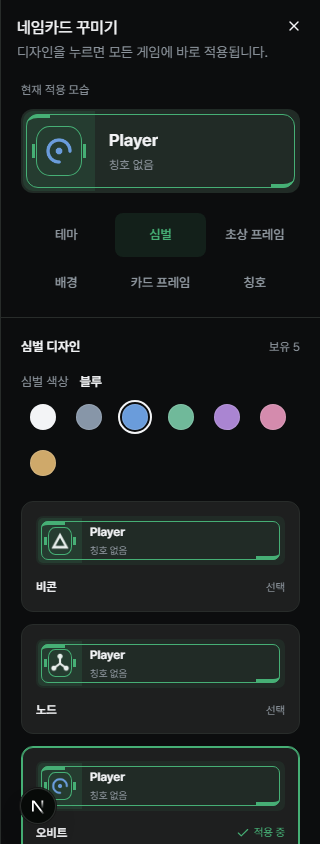
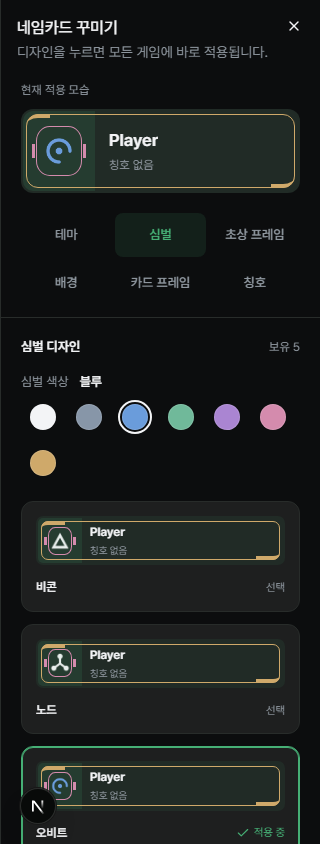
feat(profile): add independent portrait and card frame colors

diff --git a/e2e/namecard-frames-and-symbol-colors.spec.ts b/e2e/namecard-frames-and-symbol-colors.spec.ts
@@ -37,6 +37,15 @@ test("symbol colors and ten free frames persist across cards, profiles and comme
         const dialog = page.getByRole("dialog", { name: `${design.name} 미리보기`, exact: true });
         await expect(dialog.locator(`[data-${category}="${design.id}"]`)).toBeVisible();
         await expect(dialog.locator('[data-symbol-palette="blue"]')).toBeVisible();
+        const frame = dialog.locator(`[data-frame-kind="${category}"]`);
+        const palettePicker = dialog.getByRole("group", { name: new RegExp(`${label} 색상`) });
+        if (design === designs[0]) for (const palette of COSMETIC_COLOR_PRESETS) {
+          await palettePicker.getByRole("radio", { name: palette.name, exact: true }).check();
+          await expect(frame).toHaveAttribute("data-frame-palette", palette.id);
+          const rgb = [1,3,5].map(start => parseInt(palette.swatch.slice(start,start+2),16));
+          await expect(frame).toHaveCSS("color", `rgb(${rgb.join(", ")})`);
+        }
+        await palettePicker.getByRole("radio", { name: category === "portrait" ? "로즈" : "앰버", exact: true }).check();
         await dialog.getByRole("button", { name: `${design.name} 적용`, exact: true }).click();
         await expect(dialog.getByRole("button", { name: `${design.name} 적용`, exact: true })).toBeDisabled();
         await dialog.getByRole("button", { name: "미리보기 닫기", exact: true }).click();
@@ -53,6 +62,8 @@ test("symbol colors and ten free frames persist across cards, profiles and comme
     const card = editor.getByRole("region", { name: "현재 네임카드" }).locator("[data-namecard]");
     await expect(card).toHaveAttribute("data-portrait", "capsule");
     await expect(card).toHaveAttribute("data-frame", "tab");
+    await expect(card.locator('[data-frame-kind="portrait"]')).toHaveAttribute("data-frame-palette", "rose");
+    await expect(card.locator('[data-frame-kind="frame"]')).toHaveAttribute("data-frame-palette", "amber");
     for (const width of [1100, 390, 320]) {
       await page.setViewportSize({ width, height: 844 });
       expect(await editor.evaluate(el => el.scrollWidth <= el.clientWidth + 1)).toBe(true);
@@ -64,10 +75,22 @@ test("symbol colors and ten free frames persist across cards, profiles and comme
     const shared = peer.getByRole("region", { name: "플레이어 배너" }).locator("[data-namecard]");
     await expect(shared).toHaveAttribute("data-frame", "tab");
     await expect(shared).toHaveAttribute("data-portrait", "capsule");
+    await expect(shared.locator('[data-frame-kind="portrait"]')).toHaveAttribute("data-frame-palette", "rose");
+    await expect(shared.locator('[data-frame-kind="frame"]')).toHaveAttribute("data-frame-palette", "amber");
     await expect(shared.locator("[data-symbol-art]")).toHaveAttribute("data-symbol-palette", "blue");
     await peer.goto(f.path.replace(/balance$/, `board/free/${postId}`));
     await expect(peer.locator("#comments").getByRole("img", { name: `${f.users[0].nickname} 프로필 심볼`, exact: true })).toHaveAttribute("data-symbol-palette", "blue");
     await expect(peer.locator('#comments [data-frame-design="capsule"]')).toBeVisible();
+    await expect(peer.locator('#comments [data-frame-design="capsule"]')).toHaveAttribute("data-frame-palette", "rose");
+    for (const [label, category] of [["초상 프레임", "portrait"], ["카드 프레임", "frame"]] as const) {
+      await editor.getByRole("group", { name: "네임카드 꾸미기 분류" }).getByRole("button", { name: label, exact: true }).click();
+      const picker = editor.getByRole("group", { name: new RegExp(`${label} 색상`) });
+      await picker.getByRole("radio", { name: "블루", exact: true }).click();
+      await expect(card.locator(`[data-frame-kind="${category}"]`)).toHaveAttribute("data-frame-palette", "blue");
+      await picker.getByRole("radio", { name: "기본", exact: true }).click();
+      await expect(card.locator(`[data-frame-kind="${category}"]`)).toHaveAttribute("data-frame-palette", "default");
+    }
+    await editor.getByRole("group", { name: "네임카드 꾸미기 분류" }).getByRole("button", { name: "심벌", exact: true }).click();
     await editor.getByRole("group", { name: /심벌 색상/ }).getByRole("radio", { name: "기본", exact: true }).click();
     await expect(card.locator("img[data-symbol-art]")).toHaveAttribute("data-symbol-palette", "default");
     await page.reload();

diff --git a/src/components/store/personal-store-products.tsx b/src/components/store/personal-store-products.tsx
@@ -39,10 +39,11 @@ export function PersonalStoreProducts({ state, displayName, offer }: {
   const [palettes, setPalettes] = useState<Record<string, CosmeticColorPresetId | null>>({});
   const selections = selectionOverride ?? state.selections;
   const coins = coinOverride ?? state.coinBalance;
+  const hasInkPalette = (p: NamecardProduct) => p.category === "emblem" || (p.category === "portrait" || p.category === "frame") && p.rarity === "normal";
   const products = namecardProducts({ ...state, selections }, offer).map(p => {
     const palette = palettes[p.id] !== undefined ? palettes[p.id] : selections.find(s => s.option_id === p.id)?.palette_id;
     const background = namecardBackground(state.catalog.find(option => option.id === p.id)?.code, palette);
-    return { ...p, available: p.available || purchased.includes(p.id), selections: background || p.category === "emblem" ? p.selections.map(s => ({ ...s, palette_id: background?.paletteId ?? palette ?? null })) : p.selections };
+    return { ...p, available: p.available || purchased.includes(p.id), selections: background || hasInkPalette(p) ? p.selections.map(s => ({ ...s, palette_id: background?.paletteId ?? palette ?? null })) : p.selections };
   });
   const candidate = products.find(product => product.id === previewId) ?? null;
   const layout = category === "emblem" || category === "portrait" ? "compact" : category === "sub" ? "label" : "wide";
@@ -58,10 +59,10 @@ export function PersonalStoreProducts({ state, displayName, offer }: {
     return <Namecard displayName={displayName} {...appearance} previewPart={complete || product.category === "theme" ? undefined : product.category} fill />;
   };
   const applied = (p: NamecardProduct) => p.selections.every(next => selections.some(s => s.category === next.category && s.option_id === next.option_id
-    && (p.category === "emblem" ? (s.palette_id ?? null) === (next.palette_id ?? null) : !next.palette_id || namecardBackground(state.catalog.find(o => o.id === s.option_id)?.code, s.palette_id)?.paletteId === next.palette_id)));
+    && (hasInkPalette(p) ? (s.palette_id ?? null) === (next.palette_id ?? null) : !next.palette_id || namecardBackground(state.catalog.find(o => o.id === s.option_id)?.code, s.palette_id)?.paletteId === next.palette_id)));
   const reason = (p: NamecardProduct) => p.available ? null : p.premium && !offer?.eligible ? "Premium 클랜 가입 시 구매 가능" : coins < p.price ? "코인 부족" : null;
-  const palettePicker = (product: NamecardProduct, compact = false) => product.category === "emblem"
-    ? <CosmeticColorPicker allowDefault compact={compact} label={compact ? `${product.name} 색상` : "심벌 색상"} value={product.selections[0]?.palette_id as CosmeticColorPresetId ?? null} disabled={pending} onChange={value => setPalettes(previous => ({ ...previous, [product.id]: value }))} />
+  const palettePicker = (product: NamecardProduct, compact = false) => hasInkPalette(product)
+    ? <CosmeticColorPicker allowDefault compact={compact} label={compact ? `${product.name} 색상` : `${STORE_CATEGORIES.find(c => c.id === product.category)?.label} 색상`} value={product.selections[0]?.palette_id as CosmeticColorPresetId ?? null} disabled={pending} onChange={value => setPalettes(previous => ({ ...previous, [product.id]: value }))} />
     : product.selections[0]?.palette_id ? <CosmeticColorPicker compact={compact} label={compact ? `${product.name} 색상` : "배경 색상"} value={product.selections[0].palette_id as CosmeticColorPresetId} disabled={pending} onChange={value => setPalettes(previous => ({ ...previous, [product.id]: value }))} /> : null;
 
   function apply(product: NamecardProduct) {

diff --git a/src/lib/profile/namecard.ts b/src/lib/profile/namecard.ts
@@ -1,6 +1,6 @@
 export type NamecardCategory = "emblem" | "namebar" | "sub" | "frame" | "portrait";
 export type NamecardOption = { id: string; category: NamecardCategory; code: string; name_ko: string; unlock_source: string; price_coins: number; created_at?: string };
-export type NamecardAppearance = { title: string | null; frame: string | null; namebar: string | null; emblem: string | null; portrait: string | null; backgroundPalette?: string | null; symbolPalette?: string | null };
+export type NamecardAppearance = { title: string | null; frame: string | null; namebar: string | null; emblem: string | null; portrait: string | null; backgroundPalette?: string | null; symbolPalette?: string | null; portraitPalette?: string | null; framePalette?: string | null };
 export type ClanNamecards = Record<string, NamecardAppearance & { displayName: string }>;
 export type NamecardState = { catalog: NamecardOption[]; owned: string[]; selections: { category: NamecardCategory; option_id: string; palette_id?: string | null }[]; coinBalance: number };
 export type NamecardResult = { ok: true; state: NamecardState } | { ok: false; error: string };
@@ -8,7 +8,7 @@ export type NamecardResult = { ok: true; state: NamecardState } | { ok: false; e
 export function namecardAppearance(catalog: NamecardOption[], selections: NamecardState["selections"]): NamecardAppearance {
   const selected = (category: NamecardCategory) => catalog.find((option) => option.id === selections.find((item) => item.category === category)?.option_id);
   const title = selected("sub");
-  return { title: title && !title.code.endsWith("-sub-default") ? title.name_ko : null, frame: selected("frame")?.code ?? null, namebar: selected("namebar")?.code ?? null, backgroundPalette: selections.find(item => item.category === "namebar")?.palette_id ?? null, symbolPalette: selections.find(item => item.category === "emblem")?.palette_id ?? null, emblem: selected("emblem")?.code ?? null, portrait: selected("portrait")?.code ?? null };
+  return { title: title && !title.code.endsWith("-sub-default") ? title.name_ko : null, frame: selected("frame")?.code ?? null, namebar: selected("namebar")?.code ?? null, backgroundPalette: selections.find(item => item.category === "namebar")?.palette_id ?? null, symbolPalette: selections.find(item => item.category === "emblem")?.palette_id ?? null, portraitPalette: selections.find(item => item.category === "portrait")?.palette_id ?? null, framePalette: selections.find(item => item.category === "frame")?.palette_id ?? null, emblem: selected("emblem")?.code ?? null, portrait: selected("portrait")?.code ?? null };
 }
 
 export const NAMECARD_THEMES: readonly { id: string; name: string; description: string; artwork: string }[] = [];

diff --git a/src/components/profile/profile-namecard.tsx b/src/components/profile/profile-namecard.tsx
@@ -14,6 +14,7 @@ import { Namecard } from "./namecard";
 import styles from "./namecard.module.css";
 import { isNamecardPalette, namecardBackground } from "@/lib/profile/backgrounds";
 import { CosmeticColorPicker } from "@/components/cosmetics/cosmetic-color-picker";
+import { namecardFrame } from "@/lib/profile/frames";
 
 const CATEGORIES: [NamecardCategory | "theme", string][] = [["theme", "테마"], ["emblem", "심벌"], ["portrait", "초상 프레임"], ["namebar", "배경"], ["frame", "카드 프레임"], ["sub", "칭호"]];
 
@@ -47,6 +48,8 @@ export function ProfileNamecard({ initial, displayName, children }: {
   }
   const available = category === "theme" ? [] : options(category);
   const selectedId = state.selections.find(selection => selection.category === category)?.option_id ?? available[0]?.id;
+  const inkCategory = category === "emblem" || (category === "portrait" || category === "frame") && !!namecardFrame(state.catalog.find(item => item.id === selectedId)?.code, category);
+  const inkPalette = state.selections.find(selection => selection.category === category)?.palette_id;
   async function equip(selections: NamecardState["selections"], themeId?: string) {
     if (busy.current) return;
     busy.current = true; setPending(true); setError("");
@@ -78,8 +81,8 @@ export function ProfileNamecard({ initial, displayName, children }: {
             const selection = state.selections.find(item => item.category === "namebar");
             if (selection) void equip([{ ...selection, palette_id }]);
           }} />}
-          {category === "emblem" && <CosmeticColorPicker allowDefault label="심벌 색상" value={isNamecardPalette(appearance.symbolPalette) ? appearance.symbolPalette : null} disabled={pending} onChange={palette_id => {
-            if (selectedId) void equip([{ category: "emblem", option_id: selectedId, palette_id }]);
+          {inkCategory && <CosmeticColorPicker allowDefault label={`${label} 색상`} value={isNamecardPalette(inkPalette) ? inkPalette : null} disabled={pending} onChange={palette_id => {
+            if (selectedId) void equip([{ category, option_id: selectedId, palette_id }]);
           }} />}
           {category === "theme" ? <div className={styles.themeGrid} role="group" aria-label="네임카드 테마 디자인">
             {!NAMECARD_THEMES.length && <p className={styles.note}>등록된 테마가 없습니다.</p>}

diff --git a/src/components/profile/namecard.tsx b/src/components/profile/namecard.tsx
@@ -6,13 +6,13 @@ import { namecardFrame } from "@/lib/profile/frames";
 import { SymbolArtwork } from "./symbol-artwork";
 import { NamecardFrameArtwork } from "./namecard-frame-artwork";
 
-export function Namecard({ displayName, title, emblem, namebar, frame, portrait, backgroundPalette, symbolPalette, compact = false, fill = false, previewPart, children }: Partial<NamecardAppearance> & { displayName: string; compact?: boolean; fill?: boolean; previewPart?: NamecardCategory; children?: ReactNode }) {
+export function Namecard({ displayName, title, emblem, namebar, frame, portrait, backgroundPalette, symbolPalette, portraitPalette, framePalette, compact = false, fill = false, previewPart, children }: Partial<NamecardAppearance> & { displayName: string; compact?: boolean; fill?: boolean; previewPart?: NamecardCategory; children?: ReactNode }) {
   const background = namecardBackground(namebar, backgroundPalette);
   return <span className={styles.card} data-namecard="true" data-preview-part={previewPart} data-compact={compact} data-fill={fill || undefined} data-portrait={namecardFrame(portrait,"portrait")?.id ?? "default"} data-frame={namecardFrame(frame)?.id ?? "default"} data-namebar={background?.id ?? "default"} data-background-palette={background?.paletteId} style={background ? { backgroundColor: background.palette.background, "--background-pattern": background.palette.pattern, "--background-mask": `url("${background.mask}")` } as CSSProperties : undefined}>
     {background && <span className={styles.backgroundPattern} aria-hidden="true" />}
-    <NamecardFrameArtwork code={frame} />
+    <NamecardFrameArtwork code={frame} paletteId={framePalette} />
     {(!previewPart || previewPart === "emblem" || previewPart === "portrait") && <span className={styles.emblem} data-symbol="default" aria-hidden="true"><span className={styles.portrait}>
-      <NamecardFrameArtwork code={portrait} category="portrait" />
+      <NamecardFrameArtwork code={portrait} category="portrait" paletteId={portraitPalette} />
       {previewPart !== "portrait" && <span className={styles.symbolArt}><SymbolArtwork emblem={emblem} paletteId={symbolPalette} /></span>}
     </span></span>}
     {(!previewPart || previewPart === "sub") && <span className={styles.identity}>{!previewPart && <strong title={displayName}>{displayName}</strong>}<small>{title || "칭호 없음"}</small></span>}

diff --git a/src/components/profile/player-avatar.tsx b/src/components/profile/player-avatar.tsx
@@ -3,9 +3,9 @@ import { cn } from "@/lib/utils";
 import { SymbolArtwork } from "./symbol-artwork";
 import { NamecardFrameArtwork } from "./namecard-frame-artwork";
 
-export function PlayerAvatar({ emblem, symbolPalette, portrait, label, size = 32 }: { emblem?: string | null; symbolPalette?: string | null; portrait?: string | null; label: string; size?: number }) {
+export function PlayerAvatar({ emblem, symbolPalette, portrait, portraitPalette, label, size = 32 }: { emblem?: string | null; symbolPalette?: string | null; portrait?: string | null; portraitPalette?: string | null; label: string; size?: number }) {
   return <span className={cn("relative inline-flex shrink-0 items-center justify-center overflow-hidden rounded-lg border border-primary/20 bg-primary/10 p-1", size > 32 && "rounded-xl")} style={{ width: size, height: size }}>
-    <NamecardFrameArtwork code={portrait} category="portrait" />
+    <NamecardFrameArtwork code={portrait} category="portrait" paletteId={portraitPalette} />
     <SymbolArtwork emblem={emblem} paletteId={symbolPalette} alt={`${label} 프로필 심볼`} size={size}/>
   </span>;
 }

diff --git a/src/components/profile/namecard-frame-artwork.tsx b/src/components/profile/namecard-frame-artwork.tsx
@@ -1,7 +1,9 @@
 import { namecardFrame } from "@/lib/profile/frames";
 import styles from "./namecard-frame-artwork.module.css";
+import { COSMETIC_COLOR_PRESETS } from "@/lib/cosmetics/color-presets";
 
-export function NamecardFrameArtwork({ code, category = "frame" }: { code?: string | null; category?: "portrait" | "frame" }) {
+export function NamecardFrameArtwork({ code, category = "frame", paletteId }: { code?: string | null; category?: "portrait" | "frame"; paletteId?: string | null }) {
   const design = namecardFrame(code, category);
-  return design ? <span aria-hidden="true" className={styles.artwork} data-frame-kind={category} data-frame-design={design.id}><span /><span /></span> : null;
+  const palette = COSMETIC_COLOR_PRESETS.find(item => item.id === paletteId);
+  return design ? <span aria-hidden="true" className={styles.artwork} data-frame-kind={category} data-frame-design={design.id} data-frame-palette={palette?.id ?? "default"} style={palette ? { color: palette.swatch } : undefined}><span /><span /></span> : null;
 }

diff --git a/src/components/profile/clan-namecards.tsx b/src/components/profile/clan-namecards.tsx
@@ -26,7 +26,7 @@ export function useClanNamecard(userId?: string | null) {
 export function useNamecardDecorationHidden() { return useContext(HideDecoration); }
 export function ClanPlayerAvatar({ userId, label, size = 32 }: { userId?: string | null; label: string; size?: number }) {
   const card = useClanNamecard(userId);
-  return <PlayerAvatar emblem={card?.emblem} symbolPalette={card?.symbolPalette} portrait={card?.portrait} label={label} size={size}/>;
+  return <PlayerAvatar emblem={card?.emblem} symbolPalette={card?.symbolPalette} portrait={card?.portrait} portraitPalette={card?.portraitPalette} label={label} size={size}/>;
 }
 export function ClanPlayerNamecard({ userId, fallback, fill = false, children }: { userId?: string | null; fallback: string; fill?: boolean; children?: ReactNode }) {
   const card = useClanNamecard(userId);

diff --git a/src/app/actions/profile-decorations.ts b/src/app/actions/profile-decorations.ts
@@ -28,7 +28,7 @@ export async function saveNameplateSelectionAction(input: {
   if (!NAMEPLATE_CATEGORIES.includes(cat)) {
     return { ok: false, error: "잘못된 카테고리입니다." };
   }
-  if (input.paletteId != null && ((cat !== "namebar" && cat !== "emblem") || !isNamecardPalette(input.paletteId))) return { ok: false, error: "선택한 색상을 확인해 주십시오." };
+  if (input.paletteId != null && (cat === "sub" || !isNamecardPalette(input.paletteId))) return { ok: false, error: "선택한 색상을 확인해 주십시오." };
 
   const supabase = await createClient();
   const {

diff --git a/docs/01-plan/pages/14-Profile-Customization.md b/docs/01-plan/pages/14-Profile-Customization.md
@@ -49,6 +49,7 @@
 - 꾸미기 편집은 테마·심벌·초상 프레임·배경·카드 프레임·칭호 분류와 보유 디자인의 네임카드 미리보기 목록을 사용한다. 현재 게임 ID와 나머지 장착 외형을 유지한 후보를 비교하며, 적용 중인 디자인은 체크와 테두리로 표시한다. 상단 현재 적용 모습은 목록 스크롤 중에도 유지하고, 클릭 저장이 성공한 뒤에만 적용 상태를 바꾼다. 새 디자인은 개인 상점으로 연결한다.
 - 기본 제공 노말 배경 5종은 공통 6색(그래파이트·블루·그린·퍼플·로즈·앰버)을 추가 비용 없이 선택한다. 상점은 미리보기 후 적용, 꾸미기 편집은 현재 패턴의 색상 선택 즉시 저장한다. 계정 선택의 `palette_id`를 함께 조회·저장해 모든 게임·클랜과 상대 프로필에도 같은 색상을 표시한다. [제작·검증](../../design/namecard-backgrounds/normal-v1/README.md#색상-바리에이션).
 - 심벌 5종도 기본 흑백과 공통 6색을 선택·저장한다. 기본색으로 되돌릴 수 있으며 댓글/게시글 아바타에도 공유한다. 무료 노말 초상·카드 프레임 각 5종은 기존 기본 프레임과 함께 선택한다. 초상 프레임은 심벌 둘레와 아바타에, 카드 프레임은 외곽에만 표시한다. [프레임 10종·검증](../../design/namecard-frames/normal-v1/README.md).
+- 초상·카드 프레임도 기본 자동색과 공통 6색을 각각 선택한다. 같은 계정 선택의 `palette_id`에 별도로 저장해 색상 변경·기본색 복원 시 심벌·배경·다른 프레임의 색상을 유지한다. 상점과 편집 창은 기존 공통 색상 선택기를 재사용하며 장식 없는 기본 프레임에는 표시하지 않는다.
 - 2026-10-29 이미지 교체 준비: 추가 심벌·무료 스타일·그림 테마·유료 예시 칭호·기존 Premium 예시 프레임을 카탈로그에서 정리했다. 기본 방패·기본 배경·기본 카드 프레임·초상 장식 없음·칭호 없음은 유지한다. [현재 에셋](../../design/namecards/v1/README.md).
 - 편집은 심벌 분류부터 열며 테마가 없으면 영역 안에 빈 상태를 표시한다. 분류·미리보기·구매·장착의 공통 기능은 유지하고 새 디자인은 후속으로 등록한다.
 - QA의 꾸미기 구매·보유·장착·연결 원장을 정리하고 차감 순액만 복원했다. 계정 사진·클랜 배지·개인 엠블럼·경기·게시판은 보존한다. 운영 DB/배포는 보류한다.

diff --git a/docs/design/namecard-frames/normal-v1/README.md b/docs/design/namecard-frames/normal-v1/README.md
@@ -16,10 +16,13 @@
 | 카드 | 탭 | 외곽선과 대각 모서리 탭 |
 
 - [카탈로그](../../../../src/lib/profile/frames.ts)와 [공통 렌더러](../../../../src/components/profile/namecard-frame-artwork.tsx)를 사용한다. CSS 선·도형으로 그려 비율과 크기에 대응하고 별도 비트맵은 만들지 않는다.
-- 초상 프레임은 심벌 주위에만, 카드 프레임은 카드 외곽에만 배치한다. 네임카드 초상 프레임 적용 시 심벌을 줄여 장식과 겹치지 않게 한다. 배경 위는 밝은 선, 기본 배경 위는 앱 기본 강조색을 사용한다.
+- 초상 프레임은 심벌 주위에만, 카드 프레임은 카드 외곽에만 배치한다. 네임카드 초상 프레임 적용 시 심벌을 줄여 장식과 겹치지 않게 한다. 기본색은 배경 위의 밝은 선/앱 강조색에 자동 대응하며, 그래파이트·블루·그린·퍼플·로즈·앰버 6색도 무료로 선택한다.
+- 두 프레임의 `palette_id`를 각각 저장하고, 상점은 미리보기 후 적용·프로필 꾸미기는 색상 선택 즉시 저장한다. 심벌·배경·다른 프레임의 색상은 유지하며 기본색으로 되돌릴 수 있다. 초상 프레임 색상은 댓글 아바타에도 공유한다. 기본 프레임(장식 없음)에는 색상 선택기를 표시하지 않는다.
 - 네임카드·상점 샘플·댓글 아바타가 같은 초상 프레임 렌더러를 사용한다. 카드 장식은 포인터를 받지 않으며 닉네임·칭호·조작 영역을 가리지 않는다.
 - QA 개인 상점에 각각 5종을 등록하고 기존 기본 프레임도 유지한다. 계정 공통 선택에 저장하며 현재 QA 사용자의 장착·코인·보유 내역은 변경하지 않는다. 운영 DB·배포는 보류다.
 
 검증: DB 11개·관련 화면 4개·ESLint·타입 포함 빌드 통과. 프레임 10종 미리보기/적용, 새로고침, 상대 프로필/댓글 공유와 320px·390px·큰 화면 표시를 확인했다.
+
+색상 확장 검증: DB 12개·색상 집중 화면 2개·ESLint·타입 포함 빌드 통과. 두 프레임의 6색 미리보기·저장·기본색 복원과 상대 프로필/댓글 색상 공유, 기존 심벌·배경 색상 유지를 확인했다.
 
 [초상 프레임 화면](portrait-store-desktop.png) · [카드 프레임 화면](frame-store-desktop.png) · [모바일 조합](frames-composed-mobile.png)
